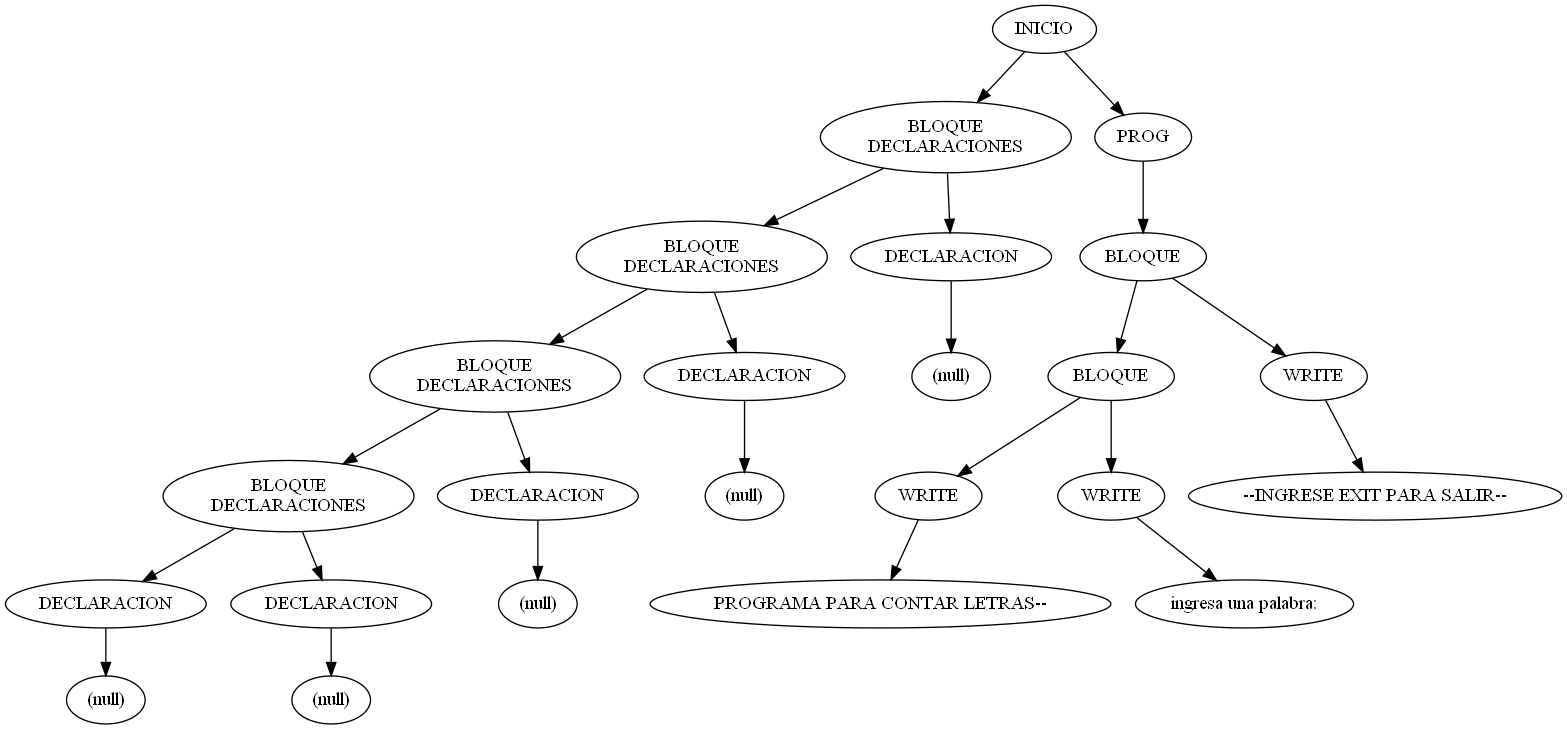
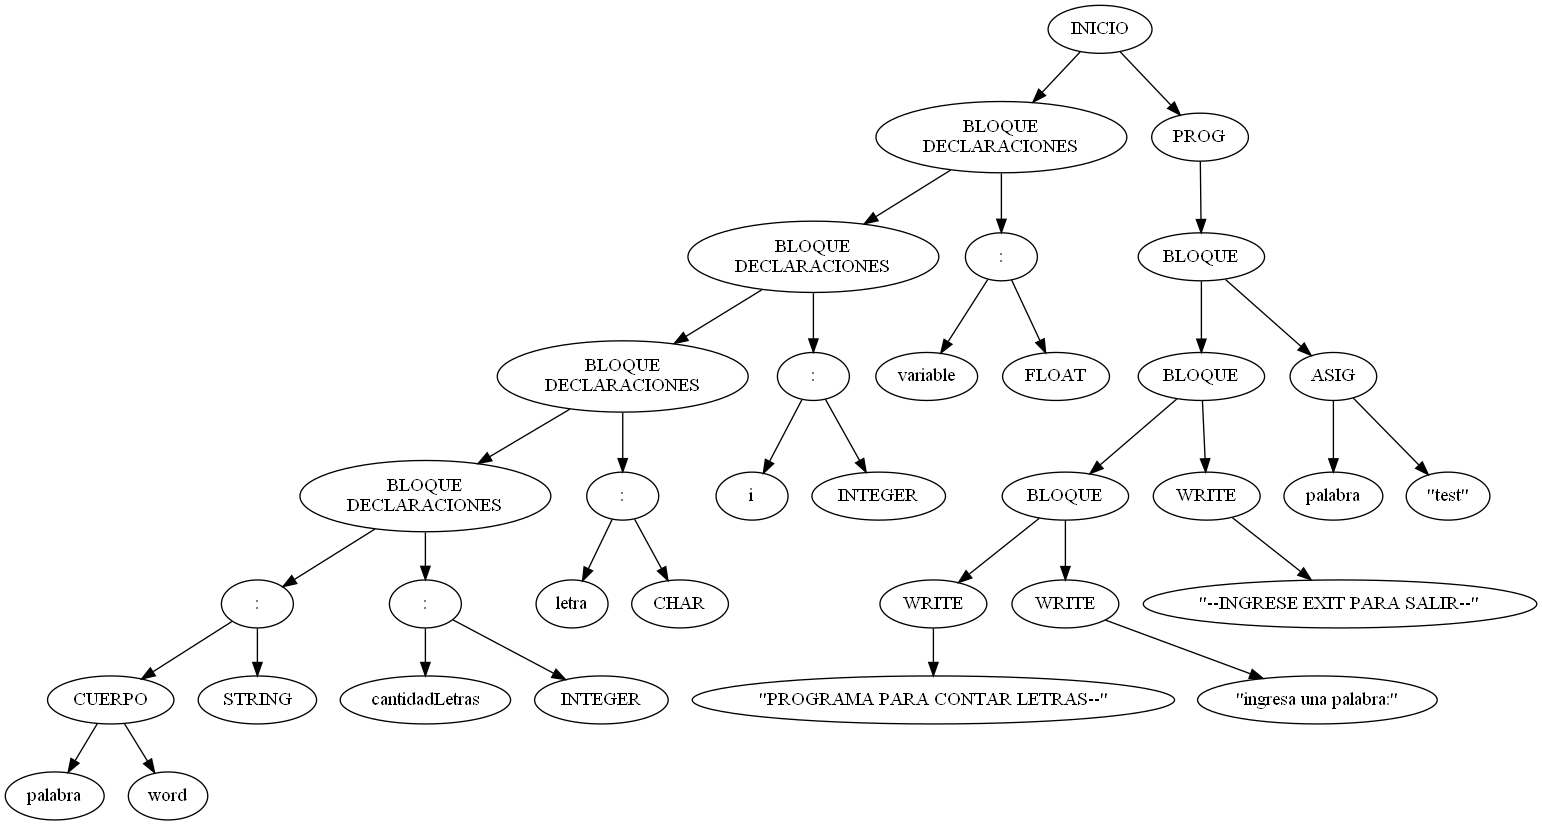
fixes

diff --git a/lib/utils.c b/lib/utils.c
@@ -25,3 +25,32 @@ char* obtenerValorString(const char *s)
 	*resultado = '\0';
 	return inicio;		
 }
+
+char* obtenerStringHoja(const char *s){
+	int i, largo = strlen(s);
+	char *inicio, *resultado;
+	resultado = (char*) malloc(sizeof(char) * largo + 3 );
+	if(resultado == NULL)
+	{
+		return NULL;
+	}
+	inicio = resultado;
+	while(*s) {
+		if( *s != '\"')
+		{		
+			*resultado = *s;
+			resultado++;
+			s++;
+		}
+		else 
+		{
+			*resultado = '\\';
+			resultado++;
+			*resultado = '\"';
+			resultado++;
+			s++;
+		}
+	}
+	*resultado = '\0';
+	return inicio;		
+}

diff --git a/lib/arboles.c b/lib/arboles.c
@@ -34,6 +34,7 @@ t_nodoa* crear_hoja(const t_info* d,FILE* pf)
     p_nodo->izq=NULL;
     p_nodo->der=NULL;
     p_nodo->info=*d;
+	printf("nodo%d[label=%c%s%c];\n",d->indice,comillas,d->valor,comillas);
 	fprintf(pf,"nodo%d[label=%c%s%c];\n",d->indice,comillas,d->valor,comillas);
 	return p_nodo;
 }

diff --git a/include/utils.h b/include/utils.h
@@ -7,5 +7,6 @@
 #include "./constantes.h"
 
 char* obtenerValorString(const char *);
+char* obtenerStringHoja(const char *);
 
 #endif
